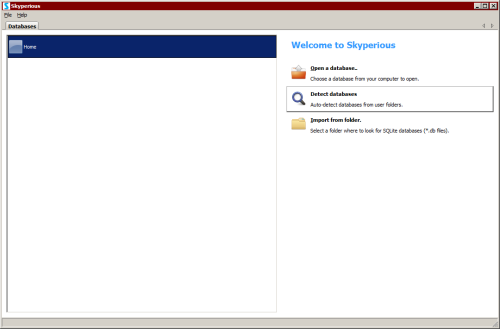
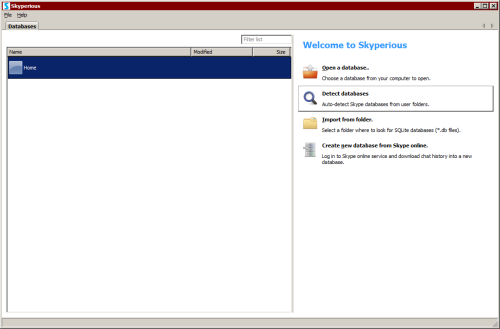
Upgraded links, texts and screenshots to v4.0.

Changed region(s): [[0.0, 0.0912, 0.99, 0.9422]]

diff --git a/index.html b/index.html
@@ -45,52 +45,49 @@
           <a href="https://github.com/suurjaak/Skyperious">View the Project on GitHub <small>suurjaak/Skyperious</small></a>
         </p>
         <ul>
-          <li><a href="https://erki.lap.ee/downloads/Skyperious/skyperious_3.6_setup.exe">Download <strong>Setup</strong></a></li>
-          <li><a href="https://erki.lap.ee/downloads/Skyperious/skyperious_3.6_x64_setup.exe">Download <strong>64bit Setup</strong></a></li>
-          <li><a href="https://erki.lap.ee/downloads/Skyperious/skyperious_3.6-src.zip">Download <strong>Source</strong></a></li>
+          <li><a href="https://erki.lap.ee/downloads/Skyperious/skyperious_4.0_setup.exe">Download <strong>Setup</strong></a></li>
+          <li><a href="https://erki.lap.ee/downloads/Skyperious/skyperious_4.0_x64_setup.exe">Download <strong>64bit Setup</strong></a></li>
+          <li><a href="https://erki.lap.ee/downloads/Skyperious/skyperious_4.0-src.zip">Download <strong>Source</strong></a></li>
         </ul>
       </header>
 
 <section>
 
-<h2>Important notice, 2019-09-21</h2>
+<h2>Important notice</h2>
 
 
-<p>As of Skype version 8.50 or thereabouts, conversation history is <strong><em>no longer
-available</em></strong> on the user machine. Previously, all chat history was kept in a 
-local SQLite database file. With the new versions, chat messages seem to 
-be kept on cloud servers only, retrieved on command by the Skype client,
-unavailable to external tools.</p>
+<p>Around 2017, starting from Skype version 8, Skype moved away from its famous
+peer-to-peer architecture to a client-server system, and started to store 
+conversation history on its own servers only.</p>
 
-<p>As such, Skyperious is now <strong><em>obsolete</em></strong>, further development is discontinued.</p>
+<p>Formerly, it used a local SQLite <code>main.db</code> database to store chats and messages,
+which is what Skyperious was originally created to work with - merging chat 
+histories from different computers into one.</p>
 
+<p>Skyperious still works with existing <code>main.db</code> files, and can also download
+newer messages from Skype online service. But any changes done to the database
+no longer affect what is visible in the official Skype program.</p>
 
-<br /><br /><br /><br /><br /><br /><hr />
+<hr />
 
 
 <p>Skyperious is a Skype database viewer and merger, written in Python.</p>
 
-You can open Skype SQLite databases and look at their contents:
+You can open Skype SQLite databases and work with their contents:
 <ul>
 <li>search across all messages and contacts</li>
-<li>browse chat history and export as HTML or spreadsheet, see chat statistics</li>
-<li>import contacts from a CSV file to your Skype contacts</li>
+<li>read chat history in full, see chat statistics and word clouds</li>
+<li>export chats as HTML, text or spreadsheet</li>
+<li>synchronize messages from Skype online service</li>
 <li>view any database table and and export their data</li>
 <li>change, add or delete data in any table</li>
 <li>execute direct SQL queries</li>
-</ul>
-and
-<ul>
-<li>synchronize messages in two Skype databases: keep chat history up-to-date on
-    different computers, or restore missing messages from older files into the
-    current one
-</li>
 </ul>
 
 <p>
 Additionally, it doubles as a useful database tool for any SQLite file.<br />
 Also, a <a href="help.html#commandline">command line interface</a> is available
-with key functions like exporting, searching, and merging.<br />
+with key functions like exporting, searching, syncing, and merging.<br />
 The graphical version includes a Python console window.
 </p>
 
@@ -109,6 +106,15 @@ You can use keywords to search among specific authors or chats only
 (<code>date:2012</code>, <code>date:2010..2013-06</code>). Search supports 
 wildcards, exact phrases, grouping, excluding, and either-or queries.
 </p><p>
+Skyperious can log into Skype online service and download and save new messages
+int the local database file. It can also create a new <code>main.db</code> database from 
+scratch, by downloading all available history.
+</p><p>
+HTML export can download shared photos and embed them in the resulting HTML,
+if password for the Skype account has been entered in online-page.
+This can be disabled in File -> Advanced Options -> SharedImageAutoDownload.
+Image download is also supported in the command-line interface.
+</p><p>
 In database comparison, you can scan one database for messages not found in
 the other, and copy all detected messages to the other database. Or you can 
 browse and copy specific chats and contacts.
@@ -118,6 +124,7 @@ Skyperious offers a number of options from the command line:
 <pre>
   export FILE [-t format]    export Skype databases as HTML, text or spreadsheet
   search "query" FILE        search Skype databases for messages or data
+  sync FILE                  download new messages from Skype online service
   merge FILE1 FILE2          merge two or more Skype databases into a new database
   diff FILE1 FILE2           compare chat history in two Skype databases
   gui [FILE]                 launch Skyperious graphical program (default option)
@@ -146,7 +153,7 @@ If running from pip installation, run <code>skyperious</code> from the command-l
 If running from straight source code, go to Skyperious directory, and launch 
 <code>skyperious.sh</code> where shell scripts are supported, or launch 
 <code>skyperious.bat</code> under Windows, or open a terminal and run 
-<code>python skyperious/main.py</code>.
+<code>python -m skyperious</code>.
 </p>
 
 
@@ -155,28 +162,32 @@ If running from straight source code, go to Skyperious directory, and launch
 Skyperious has been built using the following open-source software:
 <ul>
 <li>Python 2.7.18, <a href="http://www.python.org">www.python.org</a></li>
-<li>wxPython 4.1, <a href="http://wxpython.org">wxpython.org</a></li>
-<li>Pillow 6.2.2, <a href="https://pypi.python.org/pypi/Pillow/">wxpython.org</a></li>
+<li>wxPython 4.1.0, <a href="http://wxpython.org">wxpython.org</a></li>
+<li>beautifulsoup4 4.9.1, <a href="https://pypi.org/project/beautifulsoup4">pypi.org/project/beautifulsoup4</a></li>
+<li>dateutil 2.8.1, <a href="https://pypi.python.org/pypi/python-dateutil">pypi.python.org/pypi/python-dateutil</a></li>
+<li>Pillow 6.2.2, <a href="https://pypi.org/project/Pillow">pypi.org/project/Pillow</a></li>
+<li>pyparsing 2.4.7, <a href="https://pypi.org/project/pyparsing">pypi.org/project/pyparsing</a></li>
+<li>SkPy 0.9.1, <a href="https://pypi.org/project/SkPy">pypi.org/project/SkPy</a></li>
 <li>step, Simple Template Engine for Python, <a href="https://github.com/dotpy/step">github.com/dotpy/step</a></li>
-<li>pyparsing 2.0.3, <a href="http://pyparsing.wikispaces.com/">pyparsing.wikispaces.com</a></li>
-<li>XlsxWriter 0.7.3, <a href="https://github.com/jmcnamara/XlsxWriter">github.com/jmcnamara/XlsxWriter</a></li>
-<li>dateutil 2.4.2, <a href="https://pypi.python.org/pypi/python-dateutil">pypi.python.org/pypi/python-dateutil</a></li>
-<li>PyInstaller 3.5, <a href="http://www.pyinstaller.org">www.pyinstaller.org</a></li>
+<li>XlsxWriter 1.2.9, <a href="https://pypi.org/project/XlsxWriter">pypi.org/project/XlsxWriter</a></li>
 </ul>
 
+<p>Binaries compiled with PyInstaller,
+<a href="https://www.pyinstaller.org">www.pyinstaller.org</a>.</p>
+
 <p>Installers created with Nullsoft Scriptable Install System,
-<a href="http://nsis.sourceforge.net/">http://nsis.sourceforge.net/</a>.</p>
+<a href="https://nsis.sourceforge.io/">nsis.sourceforge.io</a>.</p>
 
 <p>Emoticon images in HTML export are property of Skype Limited, &copy; 2004-2006,
 released under the <a href="https://github.com/suurjaak/Skyperious/blob/master/res/emoticons/Skype%20Component%20License.txt">Skype Component License 1.0</a> .</p>
 
 <p>Default avatar icon from:
   Fancy Avatars, &copy; 2009 Brandon Mathis,
-  <a href="http://brandonmathis.com/projects/fancy-avatars/">http://brandonmathis.com/projects/fancy-avatars/</a></p>
+  <a href="https://github.com/imathis/fancy-avatars">github.com/imathis/fancy-avatars</a></p>
 
 <p>Several icons from:
   Fugue Icons, &copy; 2010 Yusuke Kamiyamane,
-  <a href="http://p.yusukekamiyamane.com/">http://p.yusukekamiyamane.com/</a></p>
+  <a href="https://p.yusukekamiyamane.com/">p.yusukekamiyamane.com</a></p>
 
 
 <a name="license"><h2>License</h2></a>

diff --git a/help.html b/help.html
@@ -45,9 +45,9 @@
           <a href="https://github.com/suurjaak/Skyperious">View the Project on GitHub <small>suurjaak/Skyperious</small></a>
         </p>
         <ul>
-          <li><a href="https://erki.lap.ee/downloads/Skyperious/skyperious_3.6_setup.exe">Download <strong>Setup</strong></a></li>
-          <li><a href="https://erki.lap.ee/downloads/Skyperious/skyperious_3.6_x64_setup.exe">Download <strong>64bit Setup</strong></a></li>
-          <li><a href="https://erki.lap.ee/downloads/Skyperious/skyperious_3.6-src.zip">Download <strong>Source</strong></a></li>
+          <li><a href="https://erki.lap.ee/downloads/Skyperious/skyperious_4.0_setup.exe">Download <strong>Setup</strong></a></li>
+          <li><a href="https://erki.lap.ee/downloads/Skyperious/skyperious_4.0_x64_setup.exe">Download <strong>64bit Setup</strong></a></li>
+          <li><a href="https://erki.lap.ee/downloads/Skyperious/skyperious_4.0-src.zip">Download <strong>Source</strong></a></li>
         </ul>
       </header>
       <section>
@@ -244,14 +244,15 @@
 <pre>
 <code>$ skyperious -h</code>
 
-usage: skyperious [-h] [--verbose] {export,search,merge,diff,gui} ...
+usage: skyperious [-h] [--verbose] {export,search,sync,merge,diff,gui} ...
 
 Skyperious - Skype SQLite database viewer and merger.
 
 positional arguments:
-  {export,search,merge,diff,gui}
+  {export,search,sync,merge,diff,gui}
     export              export Skype databases as HTML, text or spreadsheet
     search              search Skype databases for messages or data
+    sync                download new messages from Skype online service
     merge               merge two or more Skype databases into a new database
     diff                compare chat history in two Skype databases
     gui                 launch Skyperious graphical program (default option)
@@ -265,10 +266,11 @@ optional arguments:
 <pre>
 <code>$ skyperious -h export</code>
 
-usage: main.py export [-h] [-t {html,xlsx,csv,txt,xlsx_single}]
-                      [-c CHAT [CHAT ...]] [-a AUTHOR [AUTHOR ...]]
-                      [--verbose]
-                      FILE [FILE ...]
+usage: skyperious export [-h] [-t {html,xlsx,csv,txt,xlsx_single}]
+                         [-c CHAT [CHAT ...]] [-a AUTHOR [AUTHOR ...]]
+                         [-s START_DATE] [-e END_DATE] [--ask-password]
+                         [--store-password] [--verbose]
+                         FILE [FILE ...]
 
 Export all message history from a Skype database into files under a new
 folder, or a single Excel workbook with chats on separate sheets.
@@ -286,8 +288,13 @@ optional arguments:
                         names of specific chats to export
   -a AUTHOR [AUTHOR ...], --author AUTHOR [AUTHOR ...]
                         names of specific authors whose chats to export
-  -p, --password        ask for Skype password on HTML export, to download
+  -s START_DATE, --start START_DATE
+                        date to export messages from, as YYYY-MM-DD
+  -e END_DATE, --end END_DATE
+                        date to export messages until, as YYYY-MM-DD
+  --ask-password        prompt for Skype password on HTML export to download
                         shared images
+  --store-password      store entered password in configuration
   --verbose             print detailed progress messages to stderr
 </pre>
 
@@ -296,7 +303,7 @@ optional arguments:
 <code>$ skyperious -h search</code>
 
 usage: skyperious search [-h] [-t {message,contact,chat,table}] [--verbose]
-                      QUERY FILE [FILE ...]
+                         QUERY FILE [FILE ...]
 
 Search Skype databases for messages, chat or contact information, or table
 data.
@@ -313,6 +320,37 @@ optional arguments:
                         search in message body (default), in contact
                         information, in chat title and participants, or in any
                         database table
+  --verbose             print detailed progress messages to stderr
+</pre>
+
+
+<pre>
+<code>$ skyperious -h sync</code>
+
+usage: skyperious sync [-h] [-u USERNAME] [-p PASSWORD] [--store-password]
+                       [--ask-password] [-c CHAT [CHAT ...]]
+                       [-a AUTHOR [AUTHOR ...]] [--verbose]
+                       FILE [FILE ...]
+
+Synchronize Skype database via login to Skype online service.
+
+positional arguments:
+  FILE                  Skype database file to sync
+
+optional arguments:
+  -h, --help            show this help message and exit
+  -u USERNAME, --username USERNAME
+                        username for Skype account, used only if the Skype
+                        database does not contain account information yet
+  -p PASSWORD, --password PASSWORD
+                        password for Skype account, if not using stored or
+                        prompted
+  --store-password      store given password in configuration
+  --ask-password        prompt for Skype account password
+  -c CHAT [CHAT ...], --chat CHAT [CHAT ...]
+                        names of specific chats to sync
+  -a AUTHOR [AUTHOR ...], --author AUTHOR [AUTHOR ...]
+                        names of specific authors whose chats to sync
   --verbose             print detailed progress messages to stderr
 </pre>
 

diff --git a/screens.html b/screens.html
@@ -35,9 +35,9 @@
           <a href="https://github.com/suurjaak/Skyperious">View the Project on GitHub <small>suurjaak/Skyperious</small></a>
         </p>
         <ul>
-          <li><a href="https://erki.lap.ee/downloads/Skyperious/skyperious_3.6_setup.exe">Download <strong>Setup</strong></a></li>
-          <li><a href="https://erki.lap.ee/downloads/Skyperious/skyperious_3.6_x64_setup.exe">Download <strong>64bit Setup</strong></a></li>
-          <li><a href="https://erki.lap.ee/downloads/Skyperious/skyperious_3.6-src.zip">Download <strong>Source</strong></a></li>
+          <li><a href="https://erki.lap.ee/downloads/Skyperious/skyperious_4.0_setup.exe">Download <strong>Setup</strong></a></li>
+          <li><a href="https://erki.lap.ee/downloads/Skyperious/skyperious_4.0_x64_setup.exe">Download <strong>64bit Setup</strong></a></li>
+          <li><a href="https://erki.lap.ee/downloads/Skyperious/skyperious_4.0-src.zip">Download <strong>Source</strong></a></li>
         </ul>
       </header>
       <section>
@@ -57,10 +57,6 @@
         <p>
         Excel export: chat history<br />
         <a href="img/screen_export_xlsx.png" rel="lightbox[Screenshots]" title="Excel export"><img src="img/th_screen_export_xlsx.png" width="500" alt="Excel export" /></a>
-        </p>
-
-        Filtering chat messages:<br />
-        <a href="img/screen_browse_filter.png" rel="lightbox[Screenshots]" title="Filtering chat messages"><img src="img/th_screen_browse_filter.png" width="500" alt="Filtering chat messages" /></a>
         </p>
 
         <p>
@@ -83,10 +79,18 @@
         <a href="img/screen_browse_chats.png" rel="lightbox[Screenshots]" title="Reading chat history"><img src="img/th_screen_browse_chats.png" width="500" alt="Reading chat history" /></a>
         </p>
 
+        Filtering chat messages:<br />
+        <a href="img/screen_browse_filter.png" rel="lightbox[Screenshots]" title="Filtering chat messages"><img src="img/th_screen_browse_filter.png" width="500" alt="Filtering chat messages" /></a>
+        </p>
+
         <p>
+        Synchronizing from live:<br />
+        <a href="img/screen_sync.png" rel="lightbox[Screenshots]" title="Synchronizing from live"><img src="img/th_screen_sync.png" width="500" alt="Synchronizing from live" /></a>
+        </p>
+
         <p>
         Database information:<br />
-        <a href="img/screen_file_info.png" rel="lightbox[Screenshots]" title="Database information"><img src="img/th_screen_file_info.png" width="500" alt="atabase information" /></a>
+        <a href="img/screen_file_info.png" rel="lightbox[Screenshots]" title="Database information"><img src="img/th_screen_file_info.png" width="500" alt="Database information" /></a>
         </p>
 
         <p>

diff --git a/faq.html b/faq.html
@@ -40,9 +40,9 @@
           <a href="https://github.com/suurjaak/Skyperious">View the Project on GitHub <small>suurjaak/Skyperious</small></a>
         </p>
         <ul>
-          <li><a href="https://erki.lap.ee/downloads/Skyperious/skyperious_3.6_setup.exe">Download <strong>Setup</strong></a></li>
-          <li><a href="https://erki.lap.ee/downloads/Skyperious/skyperious_3.6_x64_setup.exe">Download <strong>64bit Setup</strong></a></li>
-          <li><a href="https://erki.lap.ee/downloads/Skyperious/skyperious_3.6-src.zip">Download <strong>Source</strong></a></li>
+          <li><a href="https://erki.lap.ee/downloads/Skyperious/skyperious_4.0_setup.exe">Download <strong>Setup</strong></a></li>
+          <li><a href="https://erki.lap.ee/downloads/Skyperious/skyperious_4.0_x64_setup.exe">Download <strong>64bit Setup</strong></a></li>
+          <li><a href="https://erki.lap.ee/downloads/Skyperious/skyperious_4.0-src.zip">Download <strong>Source</strong></a></li>
         </ul>
       </header>
       <section>
@@ -62,10 +62,10 @@
 
         <h3><a name="obsolete"></a>Does Skyperious work with modern Skype?</h3>
         <p>
-          No, Skype chat history is no longer available locally, and thus Skyperious has become
-          <strong><em>obsolete</em></strong>. 
-          It can still be used to work with older main.db files, but this will not affect the current
-          Skype account in any way.
+          Partially. Skype chat history is no longer available locally in main.db files, 
+          but Skyperious can still be used to download new messages from Skype online service,
+          for keeping an archive of all chat history. <br />
+          But any changes done to the database no longer affect what is visible in the official Skype program.
         </p>
         <br />
 

diff --git a/changelog.html b/changelog.html
@@ -40,15 +40,29 @@
           <a href="https://github.com/suurjaak/Skyperious">View the Project on GitHub <small>suurjaak/Skyperious</small></a>
         </p>
         <ul>
-          <li><a href="https://erki.lap.ee/downloads/Skyperious/skyperious_3.6_setup.exe">Download <strong>Setup</strong></a></li>
-          <li><a href="https://erki.lap.ee/downloads/Skyperious/skyperious_3.6_x64_setup.exe">Download <strong>64bit Setup</strong></a></li>
-          <li><a href="https://erki.lap.ee/downloads/Skyperious/skyperious_3.6-src.zip">Download <strong>Source</strong></a></li>
+          <li><a href="https://erki.lap.ee/downloads/Skyperious/skyperious_4.0_setup.exe">Download <strong>Setup</strong></a></li>
+          <li><a href="https://erki.lap.ee/downloads/Skyperious/skyperious_4.0_x64_setup.exe">Download <strong>64bit Setup</strong></a></li>
+          <li><a href="https://erki.lap.ee/downloads/Skyperious/skyperious_4.0-src.zip">Download <strong>Source</strong></a></li>
         </ul>
       </header>
 
       <section>
         <h2>Changelog</h2>
 
+
+        <h4>v4.0, 2020-07-29:</h4>
+        <ul>
+          <li>added support for syncing chat history from Skype online service</li>
+          <li>added 400+ more emoticon images</li>
+          <li>added date range option to chat export</li>
+          <li>restored shared image download functionality</li>
+          <li>restored support functionality</li>
+          <li>made database list sortable and filterable, added date and size columns</li>
+          <li>increased default font size for chat history, made it configurable</li>
+          <li>updated emoticon parsing</li>
+          <li>removed obsolescence notice</li>
+        </ul>
+        <br />
 
         <h4>v3.6, 2020-07-06:</h4>
         <ul>

diff --git a/install.html b/install.html
@@ -47,9 +47,9 @@
           <a href="https://github.com/suurjaak/Skyperious">View the Project on GitHub <small>suurjaak/Skyperious</small></a>
         </p>
         <ul>
-          <li><a href="https://erki.lap.ee/downloads/Skyperious/skyperious_3.6_setup.exe">Download <strong>Setup</strong></a></li>
-          <li><a href="https://erki.lap.ee/downloads/Skyperious/skyperious_3.6_x64_setup.exe">Download <strong>64bit Setup</strong></a></li>
-          <li><a href="https://erki.lap.ee/downloads/Skyperious/skyperious_3.6-src.zip">Download <strong>Source</strong></a></li>
+          <li><a href="https://erki.lap.ee/downloads/Skyperious/skyperious_4.0_setup.exe">Download <strong>Setup</strong></a></li>
+          <li><a href="https://erki.lap.ee/downloads/Skyperious/skyperious_4.0_x64_setup.exe">Download <strong>64bit Setup</strong></a></li>
+          <li><a href="https://erki.lap.ee/downloads/Skyperious/skyperious_4.0-src.zip">Download <strong>Source</strong></a></li>
         </ul>
       </header>
       <section>
@@ -102,8 +102,7 @@
         </p>
 
         <p>
-        If running from source code, Skyperious needs Python 2.7 or 2.6.
-        Python 2.6 will need the argparse library. Python 3 is not unsupported.
+        If running from source code, Skyperious needs Python 2.7. Python 3 is not supported.
         </p>
 
         <p>
